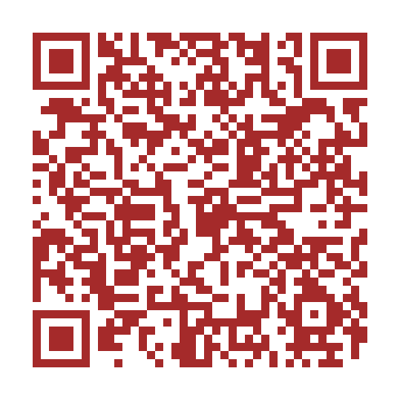
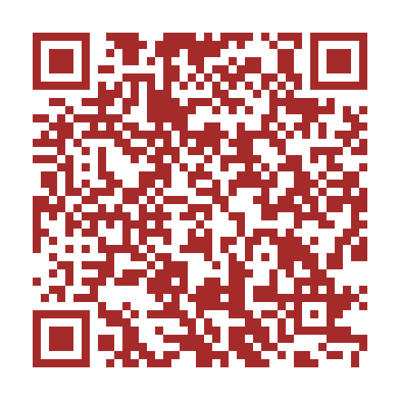
Add quick deployment guide and GitHub Pages QR code

diff --git a/快速部署指南.md b/快速部署指南.md
@@ -1,0 +1,66 @@
+# 彭城七里徐州旅游攻略 - 快速部署指南
+
+## ✅ 已完成
+代码已提交到本地 Git 仓库
+
+## 📱 手动部署步骤（约3分钟）
+
+### 第一步：打开 GitHub 仓库
+在浏览器中打开：
+```
+https://github.com/zxz716604-sys/pengcheng-travel
+```
+
+### 第二步：推送代码到 GitHub
+在 CMD 或 PowerShell 中执行：
+```bash
+cd e:\彭城七里徐州旅游攻略
+git push origin master
+```
+
+**如果遇到认证问题：**
+1. 访问 https://github.com/settings/tokens
+2. 点击 "Generate new token (classic)"
+3. 勾选 `repo` 权限
+4. 点击 "Generate token"
+5. 复制令牌，推代码时作为密码使用
+
+### 第三步：开启 GitHub Pages
+1. 在仓库页面，点击 **Settings**（设置）
+2. 左侧菜单点击 **Pages**
+3. 在 **Source** 下选择 **master** 分支
+4. 点击 **Save**
+5. 等待1-2分钟
+
+### 第四步：获取永久链接
+部署成功后，你会得到：
+```
+https://zxz716604-sys.github.io/pengcheng-travel/
+```
+
+---
+
+## 📸 更新二维码
+
+部署成功后，用上面的永久链接生成新二维码：
+
+```python
+import qrcode
+
+url = "https://zxz716604-sys.github.io/pengcheng-travel/"
+qr = qrcode.QRCode(version=1, error_correction=qrcode.constants.ERROR_CORRECT_H, box_size=10, border=4)
+qr.add_data(url)
+qr.make(fit=True)
+img = qr.make_image(fill_color='brown', back_color='white').resize((400, 400))
+img.save("微信访问二维码.png")
+```
+
+---
+
+## 📱 微信访问
+
+用微信扫描更新后的二维码，即可随时随地访问你的旅游攻略！
+
+---
+
+**问题？** 如果遇到问题，请截图发给我。
